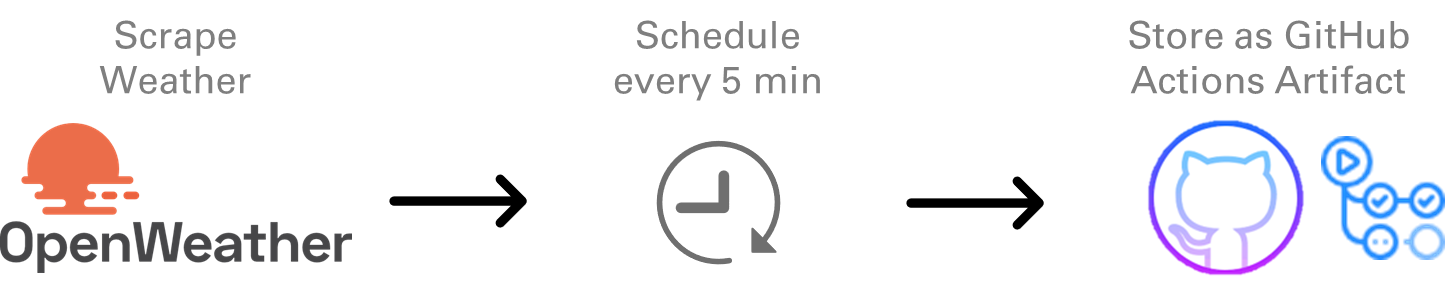
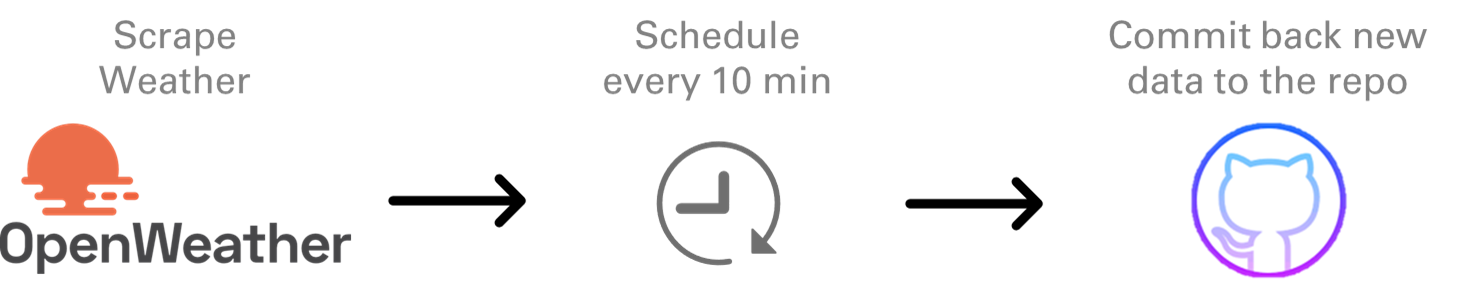
initialize csv weather history

diff --git a/scraper.py b/scraper.py
@@ -1,7 +1,7 @@
 
 import urllib.request
 import urllib.parse
-import os, json, datetime
+import os, json, datetime, csv
 
 def get_weather(city,api_key):
     base_url = "https://api.openweathermap.org/data/2.5/weather"
@@ -28,8 +28,15 @@ if __name__ == "__main__":
     else:
         city = "boston"
         weather = get_weather(city,api_key)
-        filename = f"weather_{city}.json"
-        with open(filename, "w") as f:
-            json.dump(weather, f, indent=2)
+        # filename = f"weather_{city}.json"
+        # with open(filename, "w") as f:
+        #     json.dump(weather, f, indent=2)
         print(f"Current weather in Boston:")
         print(f"Temperature: {weather['temp']}°F")
+        # Write to weather.csv
+        with open(f'weather_history_{city}.csv', 'w', newline='') as csvfile:
+            writer = csv.writer(csvfile)
+            # Write header row
+            writer.writerow(weather.keys())
+            # Write data row
+            writer.writerow(weather.values())

diff --git a/README.md b/README.md
@@ -4,11 +4,12 @@ GitHub Actions used to scrape the weather 🌦
 
 ![workflow.png](img/workflow.png)
 
-Flat viewer: https://flatgithub.com/slevin48/weather-git-scraping?filename=weather_boston.json
-
-Inspiration: https://simonwillison.net/2020/Oct/9/git-scraping/
-
 ## Setup
 
 Make sure to grant read AND write workflow permissions to the Actions in the repo settings:
 ![alt text](img/actions-permissions.png)
+
+## Resources
+
+- https://simonwillison.net/2020/Oct/9/git-scraping/
+- https://flatgithub.com/
